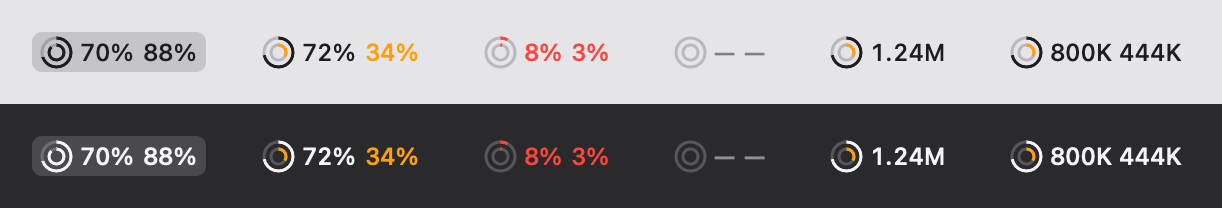
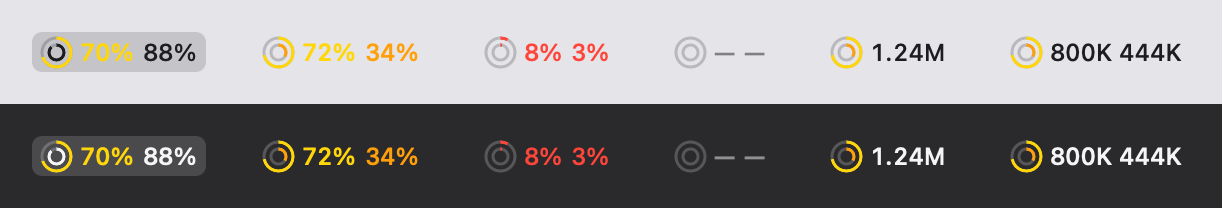
fix: 按每 25% 剩余额度分档着色，升级至 1.1.31

diff --git a/Tests/MenuBarQuotaTests.swift b/Tests/MenuBarQuotaTests.swift
@@ -26,6 +26,41 @@ enum MenuBarQuotaTests {
             print("88% inner ring is inaccurate: filled=\(filled), gaps=\(gapAfterEnd), \(gapBeforeStart)")
             exit(1)
         }
-        print("Inner quota ring proportion checks passed")
+        for isDark in [false, true] {
+            let cases: [(remaining: Int, hex: UInt32)] = [
+                (100, isDark ? 0xF5F5F7 : 0x1D1D1F),
+                (76, isDark ? 0xF5F5F7 : 0x1D1D1F),
+                (75, 0xFFD60A), (51, 0xFFD60A),
+                (50, 0xFF9F0A), (26, 0xFF9F0A),
+                (25, 0xFF453A), (8, 0xFF453A),
+            ]
+            for (remaining, hex) in cases {
+                let usedFraction = 1 - Double(remaining) / 100
+                let colorRenderer = ImageRenderer(content:
+                    MenuBarQuotaLabel(claudeFraction: usedFraction, codexFraction: usedFraction,
+                                      isDark: isDark, showsPercentages: false)
+                        .background(isDark ? Color.black : Color.white))
+                colorRenderer.scale = 8
+                let colors = NSBitmapImageRep(cgImage: colorRenderer.cgImage!)
+                func ringColor(radius: Double) -> NSColor {
+                    let angle = 0.03 * 2 * Double.pi
+                    let x = Int(((12 + radius * sin(angle)) * 8).rounded())
+                    let y = Int(((10 - radius * cos(angle)) * 8).rounded())
+                    return colors.colorAt(x: x, y: y)!.usingColorSpace(.deviceRGB)!
+                }
+                let expected = [Double((hex >> 16) & 0xFF) / 255,
+                                Double((hex >> 8) & 0xFF) / 255,
+                                Double(hex & 0xFF) / 255]
+                for radius in [7.25, 3.75] {
+                    let actual = ringColor(radius: radius)
+                    let components = [actual.redComponent, actual.greenComponent, actual.blueComponent]
+                    guard zip(components, expected).allSatisfy({ abs($0 - $1) < 0.1 }) else {
+                        print("Quota ring color is incorrect: dark=\(isDark), remaining=\(remaining), radius=\(radius)")
+                        exit(1)
+                    }
+                }
+            }
+        }
+        print("Quota ring proportion and color checks passed")
     }
 }

diff --git a/Sources/Clio/View/MenuBarQuotaLabel.swift b/Sources/Clio/View/MenuBarQuotaLabel.swift
@@ -71,8 +71,9 @@ struct MenuBarQuotaLabel: View {
 
     private func color(for remaining: Int?) -> Color {
         guard let remaining else { return foreground.opacity(0.5) }
-        if remaining < 20 { return Color(hex: 0xFF453A) }
+        if remaining <= 25 { return Color(hex: 0xFF453A) }
         if remaining <= 50 { return Color(hex: 0xFF9F0A) }
+        if remaining <= 75 { return Color(hex: 0xFFD60A) }
         return foreground
     }
 }
